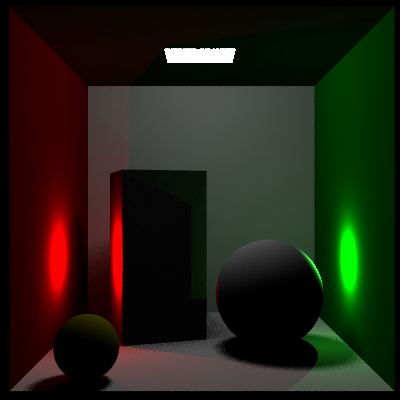
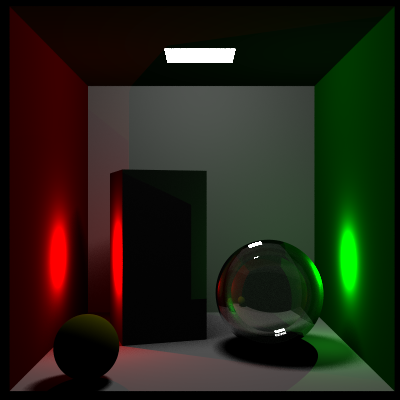
Phew, a lot of changes with vectors and intersection vectors to make glass work.

Changed region(s): [[0.54, 0.6, 0.81, 0.84]]

diff --git a/rt/materials/glass.cpp b/rt/materials/glass.cpp
@@ -1,0 +1,44 @@
+#include "glass.h"
+#include<core/random.h>
+
+namespace rt
+{
+	GlassMaterial::GlassMaterial(float eta)
+	{
+		this->eta = eta;
+	}
+	RGBColor GlassMaterial::getReflectance(const Point & texPoint, const Vector & normal, const Vector & outDir, const Vector & inDir) const
+	{
+		return RGBColor(1, 1, 1);
+	}
+	RGBColor GlassMaterial::getEmission(const Point & texPoint, const Vector & normal, const Vector & outDir) const
+	{
+		return RGBColor(0, 0, 0);
+	}
+	SampleReflectance GlassMaterial::getSampleReflectance(const Point & texPoint, const Vector & normal, const Vector & outDir) const
+	{
+		Vector finalDirection;
+
+		float cosThetaOut = dot(normal, -outDir);
+		bool comingFromAir = cosThetaOut > 0 ? true : false;
+		float randomN = random();
+
+		//Ray gets reflected:
+		if (randomN > 0.5)
+		{
+			finalDirection = (outDir + 2 * cosThetaOut * normal).normalize();
+		}
+
+		// Ray get refracted:
+		else
+		{
+			float currentEta = eta;
+			if (!comingFromAir)
+				currentEta = 1 / eta;
+
+			float c2 = sqrt(1 - (1 / eta) * (1 / eta) * (1 - cosThetaOut * cosThetaOut));
+			finalDirection = -((currentEta * (-outDir) + (currentEta  * cosThetaOut - c2) * normal).normalize());
+		}
+		return SampleReflectance(finalDirection, RGBColor(1, 1, 1));
+	}
+}

diff --git a/rt/solids/quad.cpp b/rt/solids/quad.cpp
@@ -38,7 +38,11 @@ namespace rt
 		Intersection tri1Intersection = tri1.intersect(ray, previousBestDistance);
 		if (tri1Intersection)
 		{
-			Intersection intersectionObject = Intersection(tri1Intersection.distance, ray, this, tri1Intersection.normal());
+			Vector normal = tri1Intersection.normal();
+			if (dot(normal, ray.d) > 0)
+				normal = -1.0f * normal;
+
+			Intersection intersectionObject = Intersection(tri1Intersection.distance, ray, this, normal);
 			intersectionObject.SetLocalIntersectingPoint((ray.getPoint(tri1Intersection.distance) - v1).ToPoint());
 			return intersectionObject;
 		}
@@ -47,7 +51,11 @@ namespace rt
 		Intersection tri2Intersection = tri2.intersect(ray, previousBestDistance);
 		if (tri2Intersection)
 		{
-			Intersection intersectionObject = Intersection(tri2Intersection.distance, ray, this, tri2Intersection.normal());
+			Vector normal = tri2Intersection.normal();
+			if (dot(normal, ray.d) > 0)
+				normal = -1.0f * normal;
+
+			Intersection intersectionObject = Intersection(tri2Intersection.distance, ray, this, normal);
 			intersectionObject.SetLocalIntersectingPoint((ray.getPoint(tri2Intersection.distance) - v1).ToPoint());
 			return intersectionObject;
 		}

diff --git a/rt/integrators/recraytrace.cpp b/rt/integrators/recraytrace.cpp
@@ -23,9 +23,6 @@ namespace rt
 		{
 			Vector normal = intersection.normal().normalize();
 
-			if (dot(normal, ray.d.normalize()) > 0)
-				normal = -1.0f * normal;
-
 			auto texMap = intersection.solid->texMapper;
 			if (texMap == nullptr)
 				texMap = new WorldMapper();
@@ -60,7 +57,15 @@ namespace rt
 			{
 				auto reflectance = currentMaterial->getSampleReflectance(texturePoint, normal, outDirFlipped);
 				Vector inDir = reflectance.direction.normalize();
-				Ray shadowRay = Ray(intersection.hitPoint() + displacement * normal, inDir);
+				float dot1 = dot(ray.d, inDir);
+				float dot2 = dot(ray.d, normal);
+
+				int signOfEpsilon = 1;
+				if (dot1 > 0 && dot2 < 0)
+				{
+					signOfEpsilon = -1;
+				}
+				Ray shadowRay = Ray(intersection.hitPoint() + signOfEpsilon * displacement * normal, inDir);
 
 				RGBColor incomingLightColor = this->getRadiance(shadowRay, depth + 1);
 				color = incomingLightColor * reflectance.reflectance;

diff --git a/main/a_distributed.cpp b/main/a_distributed.cpp
@@ -104,9 +104,9 @@ void a_distributed() {
     // Material* floorMaterial2 = new FuzzyMirrorMaterial(2.485f, 3.433f, 0.05f);
 
     Material* sphereMaterial1 = floorMaterial1;
-    // Material* sphereMaterial2 = new GlassMaterial(2.0f);
+    Material* sphereMaterial2 = new GlassMaterial(2.0f);
 
-    a9renderCornellbox(0.001f, "a9-1.png", cam, sphereMaterial1, floorMaterial1, 30);
+    a9renderCornellbox(0.001f, "a9-1.png", cam, sphereMaterial2, floorMaterial1, 300);
     // a9renderCornellbox(0.001f, "a9-2.png", cam, sphereMaterial2, floorMaterial2, 30);
     // a9renderCornellbox(0.001f, "a9-3.png", dofcam, sphereMaterial2, floorMaterial2, 30);
     // a9renderCornellbox(0.001f, "a9-4.png", dofcam, sphereMaterial2, floorMaterial2, 1000);

diff --git a/rt/materials/glass.h b/rt/materials/glass.h
@@ -12,6 +12,9 @@ public:
     virtual RGBColor getEmission(const Point& texPoint, const Vector& normal, const Vector& outDir) const;
     virtual SampleReflectance getSampleReflectance(const Point& texPoint, const Vector& normal, const Vector& outDir) const;
     virtual Sampling useSampling() const { return Material::SAMPLING_ALL; }
+
+private:
+	float eta;
 };
 
 }

diff --git a/rt/solids/triangle.cpp b/rt/solids/triangle.cpp
@@ -66,6 +66,9 @@ namespace rt
 			if (w < 0 || w > 1)
 				return Intersection();
 
+			if (dot(normalVector, ray.d.normalize()) > 0)
+				normalVector = -1.0f * normalVector;
+
 			intObject = Intersection(planeInt.distance, ray, this, normalVector);
 			intObject.SetLocalIntersectingPoint(u * v1 + v * v2 + w * v3);
 		}

diff --git a/rt/intersection.cpp b/rt/intersection.cpp
@@ -22,10 +22,6 @@ namespace rt
 
 		// Changing the direction of normal vector towards the ray.
 		Vector normalVector = normal;
-		if (dot(normal, ray.d) < 0)
-		{
-			normalVector = -1 * normal;
-		}
 
 		this->ray = ray;
 		this->solid = solid;
